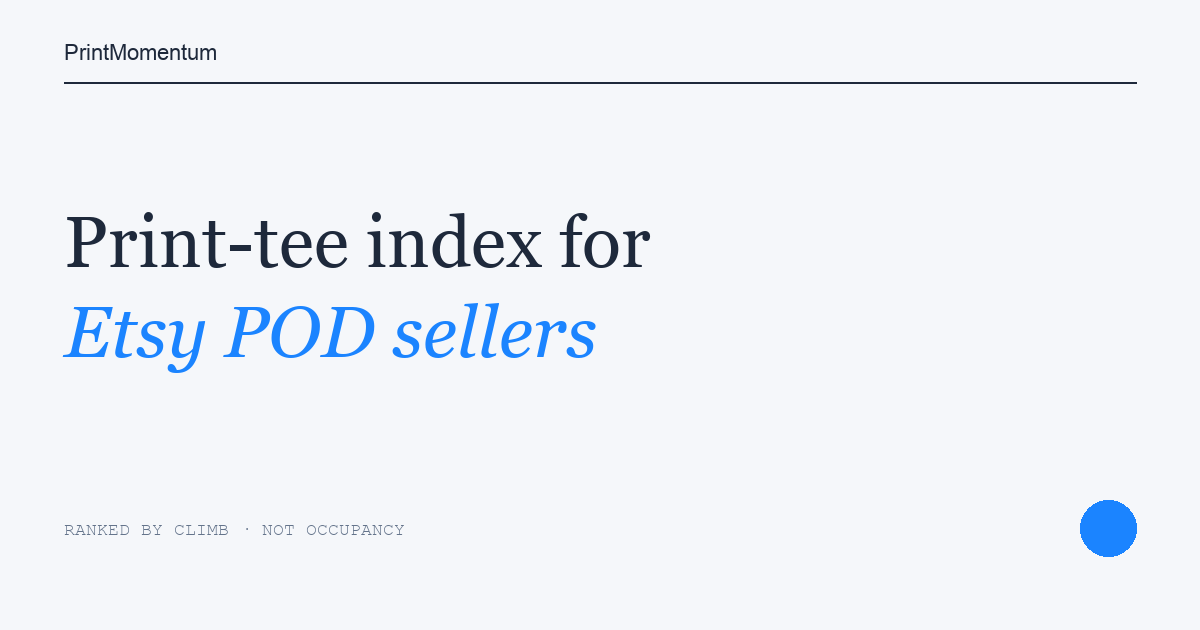
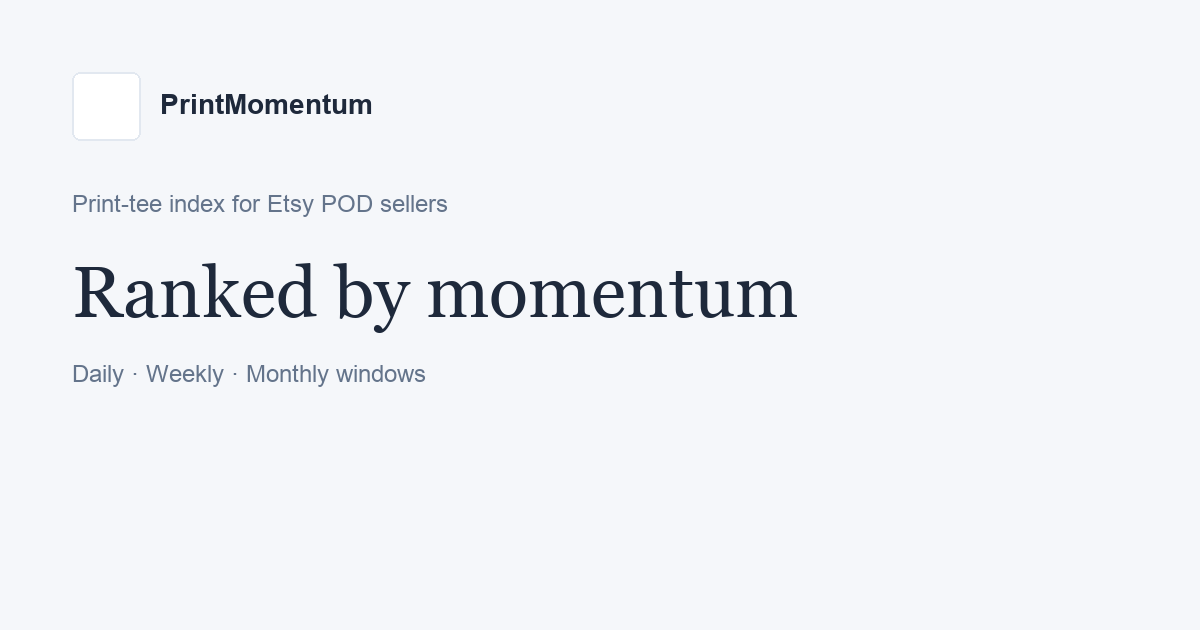
Align landing visuals with app design system.
Use ink-first chrome like the feed shell, reserve blue for login CTA and data accents only, and match button, lang toggle, and badge styling to the app.

diff --git a/styles.css b/styles.css
@@ -5,9 +5,13 @@
   --muted: #64748b;
   --hair: #e2e8f0;
   --primary: #1b84ff;
+  --primary-hover: #056ee9;
   --primary-soft: #e9f3ff;
   --success: #15803d;
+  --warning: #b45309;
+  --danger: #b91c1c;
   --sans: "Inter Tight", system-ui, -apple-system, "Segoe UI", sans-serif;
+  --serif: "Instrument Serif", Georgia, "Times New Roman", serif;
   --mono: "JetBrains Mono", ui-monospace, "SF Mono", Consolas, monospace;
   --page-x: clamp(20px, 5vw, 72px);
   --ease: cubic-bezier(0.2, 0.7, 0.2, 1);
@@ -21,8 +25,11 @@ html[data-theme="dark"] {
   --muted: #94a3b8;
   --hair: #2a3441;
   --primary: #50a5ff;
+  --primary-hover: #1b84ff;
   --primary-soft: #1a2a3d;
   --success: #4ade80;
+  --warning: #fbbf24;
+  --danger: #f87171;
   color-scheme: dark;
 }
 
@@ -44,7 +51,7 @@ body {
   margin: 0;
   background: var(--canvas);
   color: var(--ink);
-  font: 400 16px/1.55 var(--sans);
+  font: 400 14px/1.45 var(--sans);
   -webkit-font-smoothing: antialiased;
   text-rendering: optimizeGeometricPrecision;
   overflow-x: clip;
@@ -90,7 +97,7 @@ h3 {
 
 .label.accent,
 .eyebrow {
-  color: var(--primary);
+  color: var(--muted);
 }
 
 .label.muted {
@@ -107,11 +114,13 @@ h3 {
 }
 
 .text-link:hover {
-  color: var(--primary);
+  color: var(--ink);
 }
 
 .site-header {
-  padding-bottom: 16px;
+  margin: 0 calc(-1 * var(--page-x));
+  padding: 14px var(--page-x) 16px;
+  background: var(--surface);
   border-bottom: 1px solid var(--hair);
 }
 
@@ -136,7 +145,7 @@ h3 {
   display: block;
   width: 28px;
   height: 28px;
-  border-radius: 6px;
+  border-radius: 4px;
   object-fit: contain;
 }
 
@@ -163,10 +172,13 @@ h3 {
 
 .nav-link {
   white-space: nowrap;
+  font: 600 12px/1 var(--sans);
+  letter-spacing: 0.02em;
+  text-transform: none;
 }
 
 .nav-link:hover {
-  color: var(--primary);
+  color: var(--ink);
 }
 
 .header-controls {
@@ -178,37 +190,41 @@ h3 {
 
 .lang-toggle {
   display: inline-flex;
-  padding: 3px;
   border: 1px solid var(--hair);
-  border-radius: 999px;
+  border-radius: 8px;
+  overflow: hidden;
   background: var(--surface);
 }
 
 .pill {
-  padding: 6px 10px;
+  padding: 6px 8px;
   border: 0;
-  border-radius: 999px;
+  border-radius: 0;
   background: transparent;
   color: var(--muted);
-  font: 600 11px/1 var(--mono);
+  font: 600 11px/1 var(--sans);
   cursor: pointer;
 }
 
-.pill.is-on {
+.pill.is-on,
+.pill:hover {
   background: var(--primary-soft);
-  color: var(--primary);
+  color: var(--ink);
 }
 
 .icon-button {
-  padding: 7px 10px;
+  padding: 6px 8px;
   border: 1px solid var(--hair);
   border-radius: 8px;
   background: var(--surface);
-  color: var(--ink);
-  font: 600 10px/1 var(--mono);
-  letter-spacing: 0.08em;
-  text-transform: uppercase;
+  color: var(--muted);
+  font: 600 11px/1 var(--sans);
   cursor: pointer;
+}
+
+.icon-button:hover {
+  color: var(--ink);
+  background: var(--primary-soft);
 }
 
 .button {
@@ -217,27 +233,43 @@ h3 {
   justify-content: center;
   gap: 8px;
   padding: 12px 16px;
-  border: 1px solid var(--primary);
+  border: 0;
   border-radius: 8px;
   background: var(--primary);
   color: #fff;
-  font: 600 11px/1 var(--mono);
-  letter-spacing: 0.06em;
-  text-transform: uppercase;
-  transition: filter 180ms var(--ease);
+  font: 600 13px/1 var(--sans);
+  transition: background 180ms var(--ease);
 }
 
 .button:hover {
-  filter: brightness(1.05);
+  background: var(--primary-hover);
 }
 
-.button-small {
-  padding: 8px 12px;
+.button-secondary {
+  display: inline-flex;
+  align-items: center;
+  justify-content: center;
+  padding: 7px 12px;
+  border: 1px solid var(--hair);
+  border-radius: 8px;
+  background: var(--surface);
+  color: var(--ink);
+  font: 600 12px/1 var(--sans);
+}
+
+.button-secondary:hover {
+  border-color: var(--ink);
 }
 
 .button-ghost {
-  background: transparent;
-  color: var(--primary);
+  background: var(--surface);
+  color: var(--ink);
+  border: 1px solid var(--hair);
+}
+
+.button-ghost:hover {
+  border-color: var(--ink);
+  background: var(--surface);
 }
 
 .hero {
@@ -263,13 +295,15 @@ h3 {
 
 h1 {
   max-width: 12ch;
+  font-family: var(--serif);
   font-size: clamp(34px, 4.8vw, 62px);
+  font-weight: 400;
   line-height: 1.1;
 }
 
 h1 em,
 .status h2 em {
-  color: var(--primary);
+  color: inherit;
   font-style: normal;
 }
 
@@ -378,16 +412,16 @@ h1 em,
 }
 
 .mock-seg {
-  padding: 7px 12px;
+  padding: 8px 12px;
   border-radius: 6px;
   color: var(--muted);
-  font: 600 11px/1 var(--mono);
-  text-transform: uppercase;
+  font: 600 13px/1 var(--sans);
 }
 
 .mock-seg.is-on {
   background: var(--primary-soft);
   color: var(--primary);
+  box-shadow: 0 1px 2px color-mix(in srgb, var(--ink) 8%, transparent);
 }
 
 .mock-filter {
@@ -426,6 +460,7 @@ h1 em,
 
 .mock-score {
   justify-self: end;
+  color: var(--primary);
   font-weight: 600;
 }
 
@@ -460,11 +495,18 @@ h1 em,
 .badge-etsy {
   background: var(--primary-soft);
   color: var(--primary);
+  font-size: 11px;
+  font-weight: 700;
+  letter-spacing: 0.02em;
 }
 
 .badge-climb {
-  border: 1px solid var(--hair);
+  border: 1px solid var(--ink);
   color: var(--ink);
+  background: var(--canvas);
+  font: 600 12px/1 var(--sans);
+  letter-spacing: 0;
+  text-transform: none;
 }
 
 .feature-grid {
@@ -785,7 +827,7 @@ h1 em,
     display: flex;
   }
 
-  .site-nav .button {
+  .site-nav .button-secondary {
     width: 100%;
   }
 

diff --git a/index.html b/index.html
@@ -24,10 +24,10 @@
     <link rel="preconnect" href="https://fonts.googleapis.com" />
     <link rel="preconnect" href="https://fonts.gstatic.com" crossorigin />
     <link
-      href="https://fonts.googleapis.com/css2?family=Inter+Tight:wght@400;500;600;700&family=JetBrains+Mono:wght@400;500&display=swap"
+      href="https://fonts.googleapis.com/css2?family=Inter+Tight:wght@400;500;600;700&family=Instrument+Serif&family=JetBrains+Mono:wght@400;500&display=swap"
       rel="stylesheet"
     />
-    <link rel="stylesheet" href="/styles.css?v=20260828" />
+    <link rel="stylesheet" href="/styles.css?v=20260828-3" />
     <title data-i18n="meta.title">PrintMomentum</title>
     <script type="application/ld+json">
       {
@@ -59,7 +59,7 @@
             <a class="label nav-link" href="#method" data-i18n="nav.method">Method</a>
             <a class="label nav-link" href="#faq" data-i18n="nav.faq">FAQ</a>
             <a class="label nav-link" href="#access" data-i18n="nav.access">Request access</a>
-            <a class="button button-small" href="https://app.printmomentum.com" data-i18n="nav.openApp">Open app</a>
+            <a class="button-secondary" href="https://app.printmomentum.com" data-i18n="nav.openApp">Open app</a>
           </nav>
           <div class="header-controls">
             <div class="lang-toggle" role="group" aria-label="Language">
@@ -86,7 +86,7 @@
             <p class="lede" data-i18n="hero.lede">PrintMomentum indexes printable t-shirt listings from Etsy.</p>
             <div class="hero-actions">
               <a class="button" href="#access" data-i18n="hero.ctaPrimary">Request beta access</a>
-              <a class="button button-ghost" href="https://app.printmomentum.com" data-i18n="hero.ctaSecondary">Open app</a>
+              <a class="button-secondary" href="https://app.printmomentum.com" data-i18n="hero.ctaSecondary">Open app</a>
             </div>
           </div>
         </section>
@@ -285,7 +285,7 @@
       </footer>
     </div>
 
-    <script src="/i18n.js?v=20260828"></script>
-    <script src="/script.js?v=20260828"></script>
+    <script src="/i18n.js?v=20260828-3"></script>
+    <script src="/script.js?v=20260828-3"></script>
   </body>
 </html>
